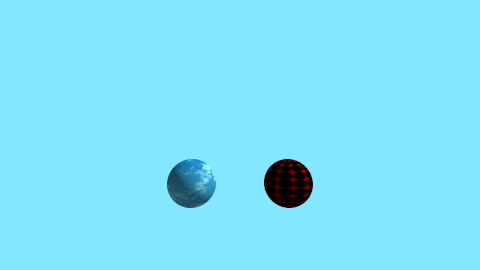
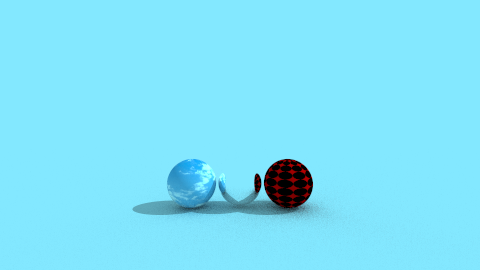
direction light now works properly.

Changed region(s): [[0.2812, 0.5926, 0.6875, 0.8296]]

diff --git a/src/cgg/a11/Raytracer.java b/src/cgg/a11/Raytracer.java
@@ -1,29 +1,29 @@
 package cgg.a11;
 
 import cgg.a11.materials.Material;
+import cgg.a11.materials.MaterialDiffuse;
 import cgg.a11.shapes.Group;
 import cgtools.Camera;
-// import cgtools.*;
 import cgtools.Color;
 import cgtools.Direction;
 import cgtools.Ray;
 import cgtools.Sampler;
 import cgtools.Vector;
 
-public record Raytracer(Camera camera, Group group) implements Sampler {
+public record Raytracer(Camera camera, World world) implements Sampler {
     
     public Color getColor(double x, double y) {
         Ray ray = camera.generateRay(x, y);
         
-        return radiance(ray, group, 10);
+        return radiance(ray, world, 10);
     }
 
-    public Color radiance(Ray ray, Group group, int depth) {
+    public Color radiance(Ray ray, World world, int depth) {
         // check for maximum recursion depth
-        if (depth == 0) return Vector.black;
+        if (depth == 0) return Vector.red;
 
         // intersect ray with scene
-        Hit hit = group.intersect(ray);
+        Hit hit = world.group().intersect(ray);
         if (hit == null) {
             return Vector.black; // return black or a background color
         }
@@ -38,14 +38,15 @@ public record Raytracer(Camera camera, Group group) implements Sampler {
 
 		Light light = new LightDirection(new Direction(1, 1, 0));
 
-		Color albedo = light.incomingIntensity(hit, group);
-		Color albedo2 = Vector.multiply(hit.material().albedo(hit), 0.2); // ???? - funktioniert aber.
+		Color albedo = (hit.material().getClass() == MaterialDiffuse.class) ?
+			Vector.add(light.incomingIntensity(hit, world.group()), material.albedo(hit)) :
+			material.albedo(hit);
 
         return Vector.multiply(
-            Vector.add(albedo, material.emission(hit), albedo2),
-            radiance(nextRay, group, --depth)
+            Vector.add(albedo, material.emission(hit)),
+            radiance(nextRay, world, depth - 1)
         );
-		// Color reflectedColor = Vector.multiply(material.albedo(hit), radiance(nextRay, group, depth - 1));
+		// Color reflectedColor = Vector.multiply(albedo, radiance(nextRay, world.group(), depth - 1));
     	// return Vector.add(material.emission(hit), reflectedColor);
     }
 }

diff --git a/src/cgg/a11/Main.java b/src/cgg/a11/Main.java
@@ -51,20 +51,27 @@ public class Main {
 		);
 		Camera camera = new Camera(Math.PI / 2, width, height, viewingMatrix);
 
+		// SCENE
 		List<Shape> sceneList = new ArrayList<>(2);
 		sceneList.add(new Background(new MaterialBackground(new Constant(new Color(0.23, 0.81, 1))))); // BACKGROUND
 		// sceneList.add(new Sphere(Vector.zero, 10, new MaterialBackground(texture)));
 		// sceneList.add(new Plane(new Point(0, -1, 0), Vector.yAxis, 100, 100, new MaterialMirror(0)));
+		sceneList.add(new Plane(new Point(0, -1, 0), Vector.yAxis, 100, 100, new MaterialDiffuse(new Constant(Vector.gray))));
 		sceneList.add(new Sphere(new Point(-2, 0, 0), 1, new MaterialDiffuse(texture)));
 		// sceneList.add(new Sphere(new Point(-2, 0, 0), 1, new MaterialDiffuse(new Constant(Vector.green))));
-		// sceneList.add(new Sphere(new Point(0, 0, 0), 0.9, new MaterialMirror(0)));
+		sceneList.add(new Sphere(new Point(0, 0, 0), 0.9, new MaterialMirror(0)));
 		sceneList.add(new Sphere(new Point(2, 0, 0), 1, new MaterialDiffuse(new PolkaTexture(Vector.black, Vector.red, 0.05))));
 		// sceneList.add(new Sphere(new Point(1, 0, 2), 1.4, new MaterialGlass()));
+
+		// LIGHTS
+		List<Light> lights = new ArrayList<>();
+		lights.add(new LightDirection(new Direction(1, 1, 0)));
 		
 		Group scene = new Group(sceneList);//, new Transformation(Matrix.translation(new Direction(0, 0, 0))));
+		World world = new World(scene, lights);
 
 		// Defines the contents of the image.
-		Sampler content = new Raytracer(camera, scene);
+		Sampler content = new Raytracer(camera, world);
 
 		// Creates an image and iterates over all pixel positions inside the image.
 		var image = new Image(width, height);

diff --git a/src/cgg/a11/LightDirection.java b/src/cgg/a11/LightDirection.java
@@ -1,5 +1,6 @@
 package cgg.a11;
 
+import cgg.a11.materials.MaterialDiffuse;
 import cgg.a11.shapes.Shape;
 import cgtools.Color;
 import cgtools.Direction;
@@ -10,13 +11,24 @@ public record LightDirection(Direction direction) implements Light {
 
 	@Override
 	public Color incomingIntensity(Hit hit, Shape scene) {
+		// make sure only diffuse materials are affected by the light
+		// if (hit.material().getClass() != MaterialDiffuse.class) {
+		// 	return hit.material().albedo(hit);
+		// } else {
+		// 	int i = 0;
+		// }
+
+		// check if the light is visible from the hit point
 		Hit sceneHit = scene.intersect(new Ray(hit.position(), direction, 0.0001, Double.POSITIVE_INFINITY));
 		boolean shadow = sceneHit.position() != null || sceneHit.t() != Double.POSITIVE_INFINITY;
 		if (shadow) {
 			return Vector.black;
 		}
+
+		// calculate the intensity of the light
 		Color intensity = Vector.multiply(hit.material().albedo(hit), Vector.dotProduct(hit.normal(), direction));
 		// Color intensity = hit.material().albedo(hit);
+		// return Vector.multiply(intensity, hit.material().albedo(hit));
 		return intensity;
 	}
 	

diff --git a/src/cgg/a11/World.java b/src/cgg/a11/World.java
@@ -1,0 +1,9 @@
+package cgg.a11;
+
+import java.util.List;
+
+import cgg.a11.shapes.Group;
+
+public record World(Group group, List<Light> lights) {
+	
+}
